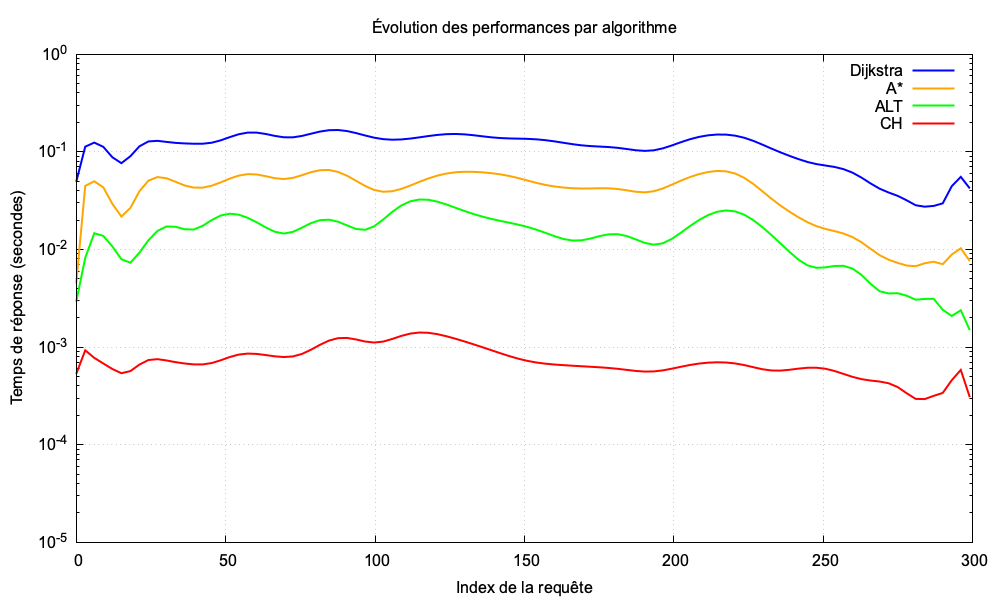
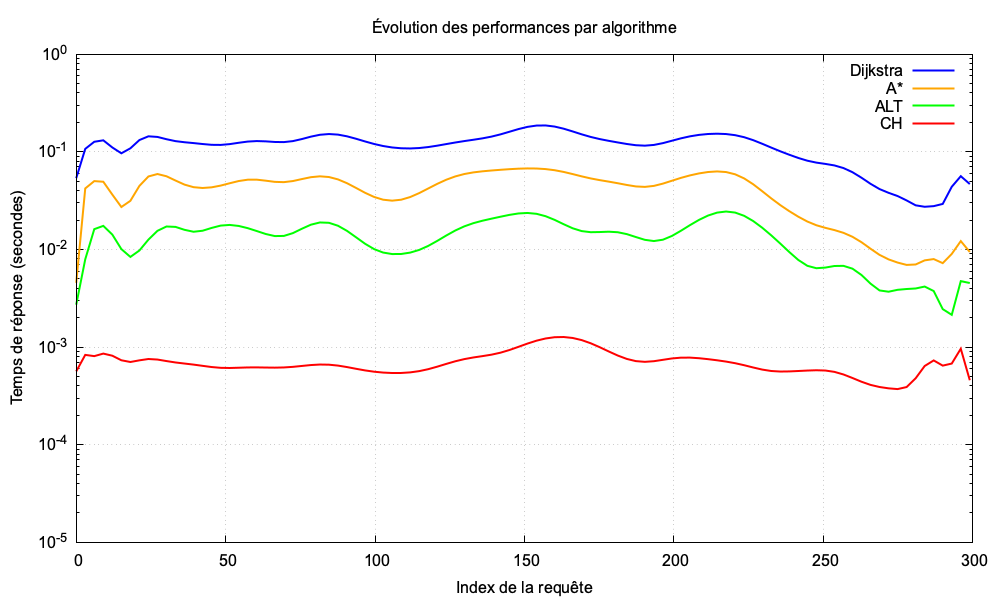
ajout des resultats txt

diff --git a/scripts/analyze_results.py b/scripts/analyze_results.py
@@ -48,8 +48,12 @@ for path, name in algos_time:
 
 if time_stats:
     df_time = pd.DataFrame(time_stats)
-    print("\nSTATISTIQUES DE TEMPS")
+    print("\nstatistique des temps")
     print(df_time.to_string(index=False))
+    with open('resultats/synthese_temps.txt', 'w') as f:
+        f.write("STATISTIQUES DE TEMPS\n")
+        f.write(df_time.to_string(index=False))
+        f.write("\n")
 
 # PARTIE 2 : ANALYSE DE LA MÉMOIRE (RAM)
 algos_memory = [
@@ -66,16 +70,24 @@ for path, name in algos_memory:
 
 if mem_stats:
     df_mem = pd.DataFrame(mem_stats)
-    print("\nSTATISTIQUES DE MÉMOIRE")
+    print("\nles stat pour la mémoire :")
     print(df_mem.to_string(index=False))
+    with open('resultats/synthese_memoire.txt', 'w') as f:
+        f.write("STATISTIQUES DE MEMOIRE\n")
+        f.write(df_mem.to_string(index=False))
+        f.write("\n")
 
 # PARTIE 3 : ANALYSE DES COÛTS DE PRÉTRAITEMENT
 pre_file = 'resultats/pretraitements_costs.txt'
 
 if os.path.exists(pre_file):
     df_pre = pd.read_csv(pre_file, sep=' ', header=None, names=['Algo', 'Temps (secondes)', 'Surcoût RAM (Mo)'])
-    print("\nCOÛT DU PRÉTRAITEMENT")
+    print("\nCoût du prétraitement")
     print(df_pre.to_string(index=False))
+    with open('resultats/synthese_pretraitement.txt', 'w') as f:
+        f.write("COUT DU PRETRAITEMENT\n")
+        f.write(df_pre.to_string(index=False))
+        f.write("\n")
 else:
     print(f"\nFichier de prétraitement introuvable: {pre_file}. Relancez le programme C.")
     
